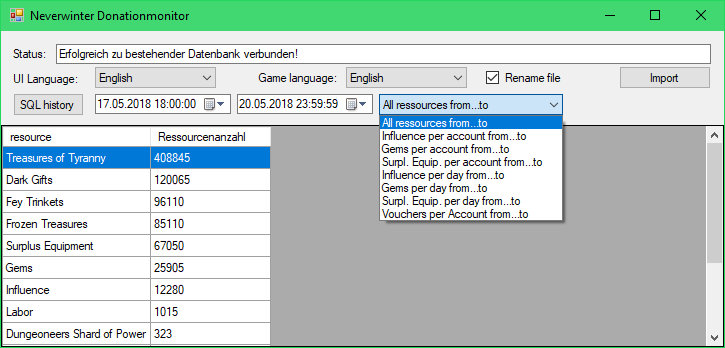
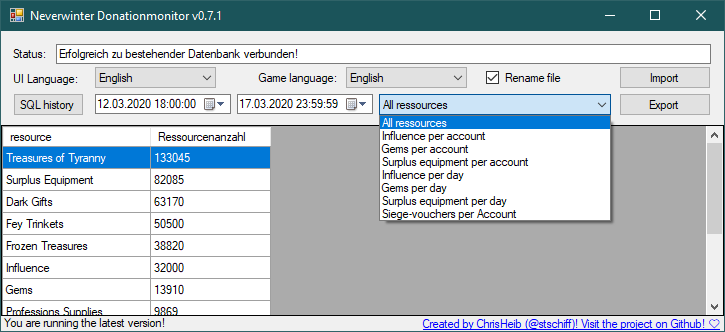
Cleanup & new screenshot

diff --git a/NW-Spendenmonitor/Languages.cs b/NW-Spendenmonitor/Languages.cs
@@ -56,14 +56,14 @@ namespace NW_Spendenmonitor
                         form_sqlhistory = "SQL-Historie";
                         form_commands = new List<string>
                         {
-                            "Alle Ressourcen von ... bis",
-                            "Einfluss pro Account von...bis",
-                            "Juwelen pro Account von ... bis",
-                            "Überfl. Ausr. pro Account von ... bis",
-                            "Einfluss pro Tag von...bis",
-                            "Juwelen pro Tag von ... bis",
-                            "Überfl. Ausr. pro Tag von ... bis",
-                            "Gutscheine pro Account von ... bis"
+                            "Alle Ressourcen",
+                            "Einfluss pro Account",
+                            "Juwelen pro Account",
+                            "Überschüssige Ausrüstung pro Account",
+                            "Einfluss pro Tag",
+                            "Juwelen pro Tag",
+                            "Überschüssige Ausrüstung pro Tag",
+                            "Belagerungsgutscheine pro Account"
                         };
 
                         form_importlanguages = new List<string>
@@ -99,14 +99,14 @@ namespace NW_Spendenmonitor
                         form_sqlhistory = "SQL history";
                         form_commands = new List<string>
                         {
-                            "All ressources from...to",
-                            "Influence per account from...to",
-                            "Gems per account from...to",
-                            "Surpl. Equip. per account from...to",
-                            "Influence per day from...to",
-                            "Gems per day from...to",
-                            "Surpl. Equip. per day from...to",
-                            "Vouchers per Account from...to"
+                            "All ressources",
+                            "Influence per account",
+                            "Gems per account",
+                            "Surplus equipment per account",
+                            "Influence per day",
+                            "Gems per day",
+                            "Surplus equipment per day",
+                            "Siege-vouchers per Account"
                         };
 
                         form_importlanguages = new List<string>

diff --git a/NW-Spendenmonitor/Main.cs b/NW-Spendenmonitor/Main.cs
@@ -65,7 +65,7 @@ namespace NW_Spendenmonitor
             }
             else
             {
-                dateFrom = Main.StringToDateTime(strDateFrom);
+                dateFrom = StringToDateTime(strDateFrom);
             }
 
             if (strDateTo == "")
@@ -74,7 +74,7 @@ namespace NW_Spendenmonitor
             }
             else
             {
-                dateTo = Main.StringToDateTime(strDateTo);
+                dateTo = StringToDateTime(strDateTo);
             }
 
             dTPFrom.Value = dateFrom;
@@ -88,10 +88,8 @@ namespace NW_Spendenmonitor
             dTPTo.ValueChanged += new EventHandler(EventRunStatement);
             DebugMessageBox("Event Handlers Set");
 
-            Statement.RunStatement(this, Int32.Parse(GetConfig("LastStatistic", "0")));
+            Statement.RunStatement(this, int.Parse(GetConfig("LastStatistic", "0")));
             DebugMessageBox("Last statement run");
-
-            //ConfigClass.TestConfig(dbConnection);
         }
 
         private void Button1_Click(object sender, EventArgs e)
@@ -110,7 +108,7 @@ namespace NW_Spendenmonitor
             textBox1.Text = listBox1.SelectedItem.ToString();
         }
 
-        private void Button3_Click(object sender, EventArgs e)
+        private void Btn_Import_Click(object sender, EventArgs e)
         {
             OpenFileDialog openFileDialog1 = new OpenFileDialog()
             {
@@ -207,7 +205,7 @@ namespace NW_Spendenmonitor
         private void linkLabel1_LinkClicked(object sender, LinkLabelLinkClickedEventArgs e)
         {
             // Specify that the link was visited.
-            this.linkLabel1.LinkVisited = true;
+            linkLabel1.LinkVisited = true;
 
             // Navigate to a URL.
             System.Diagnostics.Process.Start("https://github.com/chrisheib/NWO-Donation-Monitor");

diff --git a/NW-Spendenmonitor/ConfigClass.cs b/NW-Spendenmonitor/ConfigClass.cs
@@ -7,7 +7,6 @@ namespace NW_Spendenmonitor
         public static string VERSION = "v0.7.1";
         public static int ImportLanguage;
         public static Languages.UILanguage UILanguage;
-        public static bool VersioncheckCompleted = false;
 
         public static string GetConfig(SQLiteConnection dbConnection, string field)
         {
@@ -35,25 +34,5 @@ namespace NW_Spendenmonitor
 
             DB.Execute(dbConnection, command, false);
         }
-
-        //public static void TestConfig(SQLiteConnection dbConnection)
-        //{
-        //    string test;
-        //    SetConfig(dbConnection, "test1", "test1");
-        //    SetConfig(dbConnection, "test2", "test2");
-        //    SetConfig(dbConnection, "test3", "test3");
-
-        //    test = GetConfig(dbConnection, "test1");
-        //    test = GetConfig(dbConnection, "test2");
-        //    test = GetConfig(dbConnection, "test3");
-
-        //    SetConfig(dbConnection, "test1", "test4");
-        //    SetConfig(dbConnection, "test2", "test5");
-        //    SetConfig(dbConnection, "test3", "test6");
-
-        //    test = GetConfig(dbConnection, "test1");
-        //    test = GetConfig(dbConnection, "test2");
-        //    test = GetConfig(dbConnection, "test3");
-        //}
     }
 }

diff --git a/NW-Spendenmonitor/VersionChecker.cs b/NW-Spendenmonitor/VersionChecker.cs
@@ -1,12 +1,8 @@
-using System;
-using System.Net;
+using System.Net;
 using System.IO;
-
-// code taken from: https://stackoverflow.com/questions/6644247/simple-custom-event - themartinmcfly 
 
 namespace NW_Spendenmonitor
 {
-
     class VersionChecker
     {
         public static bool completed = false;
@@ -15,9 +11,7 @@ namespace NW_Spendenmonitor
 
         public VersionChecker()
         {
-            System.Threading.Thread newThread =
-                new System.Threading.Thread(CheckForNewVersion);
-            newThread.Start();
+            new System.Threading.Thread(CheckForNewVersion).Start();
         }
 
         private void CheckForNewVersion()

diff --git a/NW-Spendenmonitor/Main.Designer.cs b/NW-Spendenmonitor/Main.Designer.cs
@@ -219,7 +219,7 @@
             this.btn_import.TabIndex = 14;
             this.btn_import.Text = "Import";
             this.btn_import.UseVisualStyleBackColor = true;
-            this.btn_import.Click += new System.EventHandler(this.Button3_Click);
+            this.btn_import.Click += new System.EventHandler(this.Btn_Import_Click);
             // 
             // textBox2
             // 

diff --git a/NW-Spendenmonitor/ImportLanguageManager.cs b/NW-Spendenmonitor/ImportLanguageManager.cs
@@ -74,7 +74,6 @@ namespace NW_Spendenmonitor
                 tw.WriteLine(s);
             }
             tw.Close();
-            
         }
     }
 }
